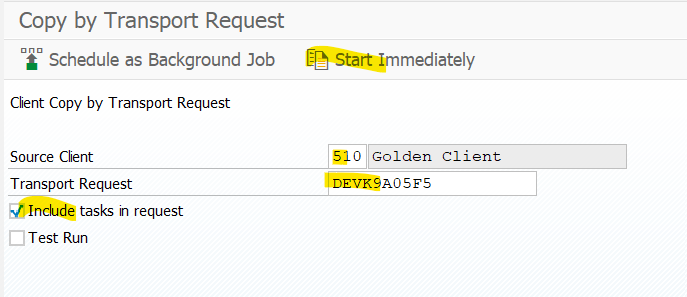
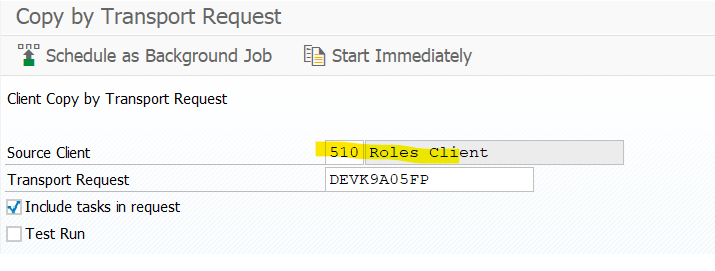
change in photo

diff --git a/index.html b/index.html
@@ -1020,7 +1020,7 @@
           <div class="header-badges">
             <span class="badge-part">TURNOVER DECK</span>
             <span class="badge-step">SLIDE 1 OF 12</span>
-            <span class="badge-system">DEV 510 • DEV 100 • QAS 100 • PRD 100</span>
+            <span class="badge-system">DEV 510 • DEV 100 • QAS • PRD</span>
           </div>
           <h1 class="slide-title">SAP MM SUPPORT TURNOVER</h1>
           <p class="slide-subtitle">Operational handover for Purchase Requisition Approver Configuration, Claim Tag Processing, and Master Data Maintenance.</p>
@@ -1088,7 +1088,7 @@
             <tbody>
               <tr>
                 <td><strong style="color: var(--brand-primary);">DEV 510</strong></td>
-                <td>Golden Client</td>
+                <td>Roles Client</td>
                 <td>Customizing & Org assignment (<span class="tcode" onclick="copyTCode('PPOME')">PPOME</span>), SU01, TR Release (<span class="tcode" onclick="copyTCode('SE10')">SE10</span>)</td>
               </tr>
               <tr>
@@ -1097,12 +1097,12 @@
                 <td>Client copy import (<span class="tcode" onclick="copyTCode('SCC1')">SCC1</span>) & initial verification</td>
               </tr>
               <tr>
-                <td><strong style="color: var(--brand-primary);">QAS 100</strong></td>
+                <td><strong style="color: var(--brand-primary);">QAS</strong></td>
                 <td>Quality Assurance</td>
                 <td>STMS import queue (<span class="tcode" onclick="copyTCode('STMS')">STMS</span>), PR testing (<span class="tcode" onclick="copyTCode('ME51N')">ME51N</span>), UAT</td>
               </tr>
               <tr>
-                <td><strong style="color: var(--brand-primary);">PRD 100</strong></td>
+                <td><strong style="color: var(--brand-primary);">PRD</strong></td>
                 <td>Production System</td>
                 <td>Transported by Basis (Ms. Ira), live ticket resolution</td>
               </tr>
@@ -1219,7 +1219,7 @@
           <div class="header-badges">
             <span class="badge-part">PART 1</span>
             <span class="badge-step">SLIDE 3 OF 12 • CONFIGURATION STEP 1</span>
-            <span class="badge-system">DEV 510 (Golden Client)</span>
+            <span class="badge-system">DEV 510 (Roles Client)</span>
           </div>
           <h1 class="slide-title">Approver Assignment in DEV 510</h1>
           <p class="slide-subtitle">Maintaining Org Structure via PPOME and ensuring User Account exists via SU01.</p>
@@ -1375,7 +1375,7 @@
         <div class="content-card">
           <h3 class="card-title">🚚 Client Copy Procedure via SCC1</h3>
           <p style="color: var(--text-secondary); margin-bottom: 1rem; line-height: 1.55;">
-            After completing the configuration in Golden Client (DEV 510), proceed to DEV 100 to replicate the changes for unit testing without releasing the TR yet.
+            After completing the configuration in Roles Client (DEV 510), proceed to DEV 100 to replicate the changes for unit testing without releasing the TR yet.
           </p>
 
           <ul class="step-list">
@@ -1390,14 +1390,14 @@
               <span class="step-num">2</span>
               <div class="step-text">
                 <strong>Enter Source Client:</strong>
-                <div>In the <em>Source Client</em> field, input <code>510</code> (Golden Client, where config was created).</div>
+                <div>In the <em>Source Client</em> field, input <code>510</code> (Roles Client, where config was created).</div>
               </div>
             </li>
             <li class="step-item">
               <span class="step-num">3</span>
               <div class="step-text">
                 <strong>Enter Transport Request:</strong>
-                <div>Input your TR number (e.g. <code>DEVK9A05F5</code>).</div>
+                <div>Input your TR number (e.g. <code>DEVK9A05FP</code>).</div>
               </div>
             </li>
             <li class="step-item">
@@ -1432,7 +1432,7 @@
               <div class="zoom-overlay">🔍 Click to Zoom</div>
             </div>
             <div class="screenshot-caption">
-              <span><strong>SCC1 Settings:</strong> Source: 510, TR: DEVK9A05F5, [✓] Include tasks</span>
+              <span><strong>SCC1 Settings:</strong> Source: 510 (Roles Client), TR: DEVK9A05FP, [✓] Include tasks</span>
               <span class="caption-tag">T-Code: SCC1</span>
             </div>
           </div>
